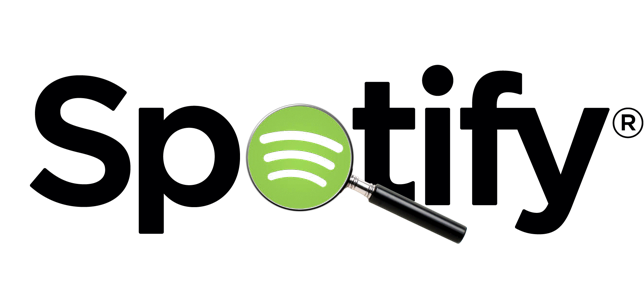
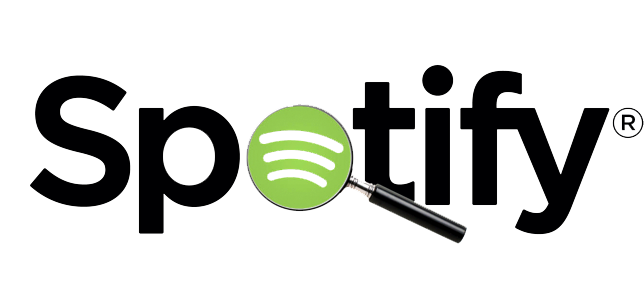
added better header img

diff --git a/index.html b/index.html
@@ -15,7 +15,7 @@
     <div class="container bgImg">
         <div class="row">
             <div class="col-md-6 col-md-offset-3">
-                <img class="logo img-responsive" src="icon.png" alt="Search Spotify">
+                <img class="logo img-responsive" src="spotify_icon.png" alt="Search Spotify">
                 <form id="spotify-search">
                     <div class="form-group">
                         <input class="form-control" id="track" placeholder="Enter Search Keyword " autofocus>
